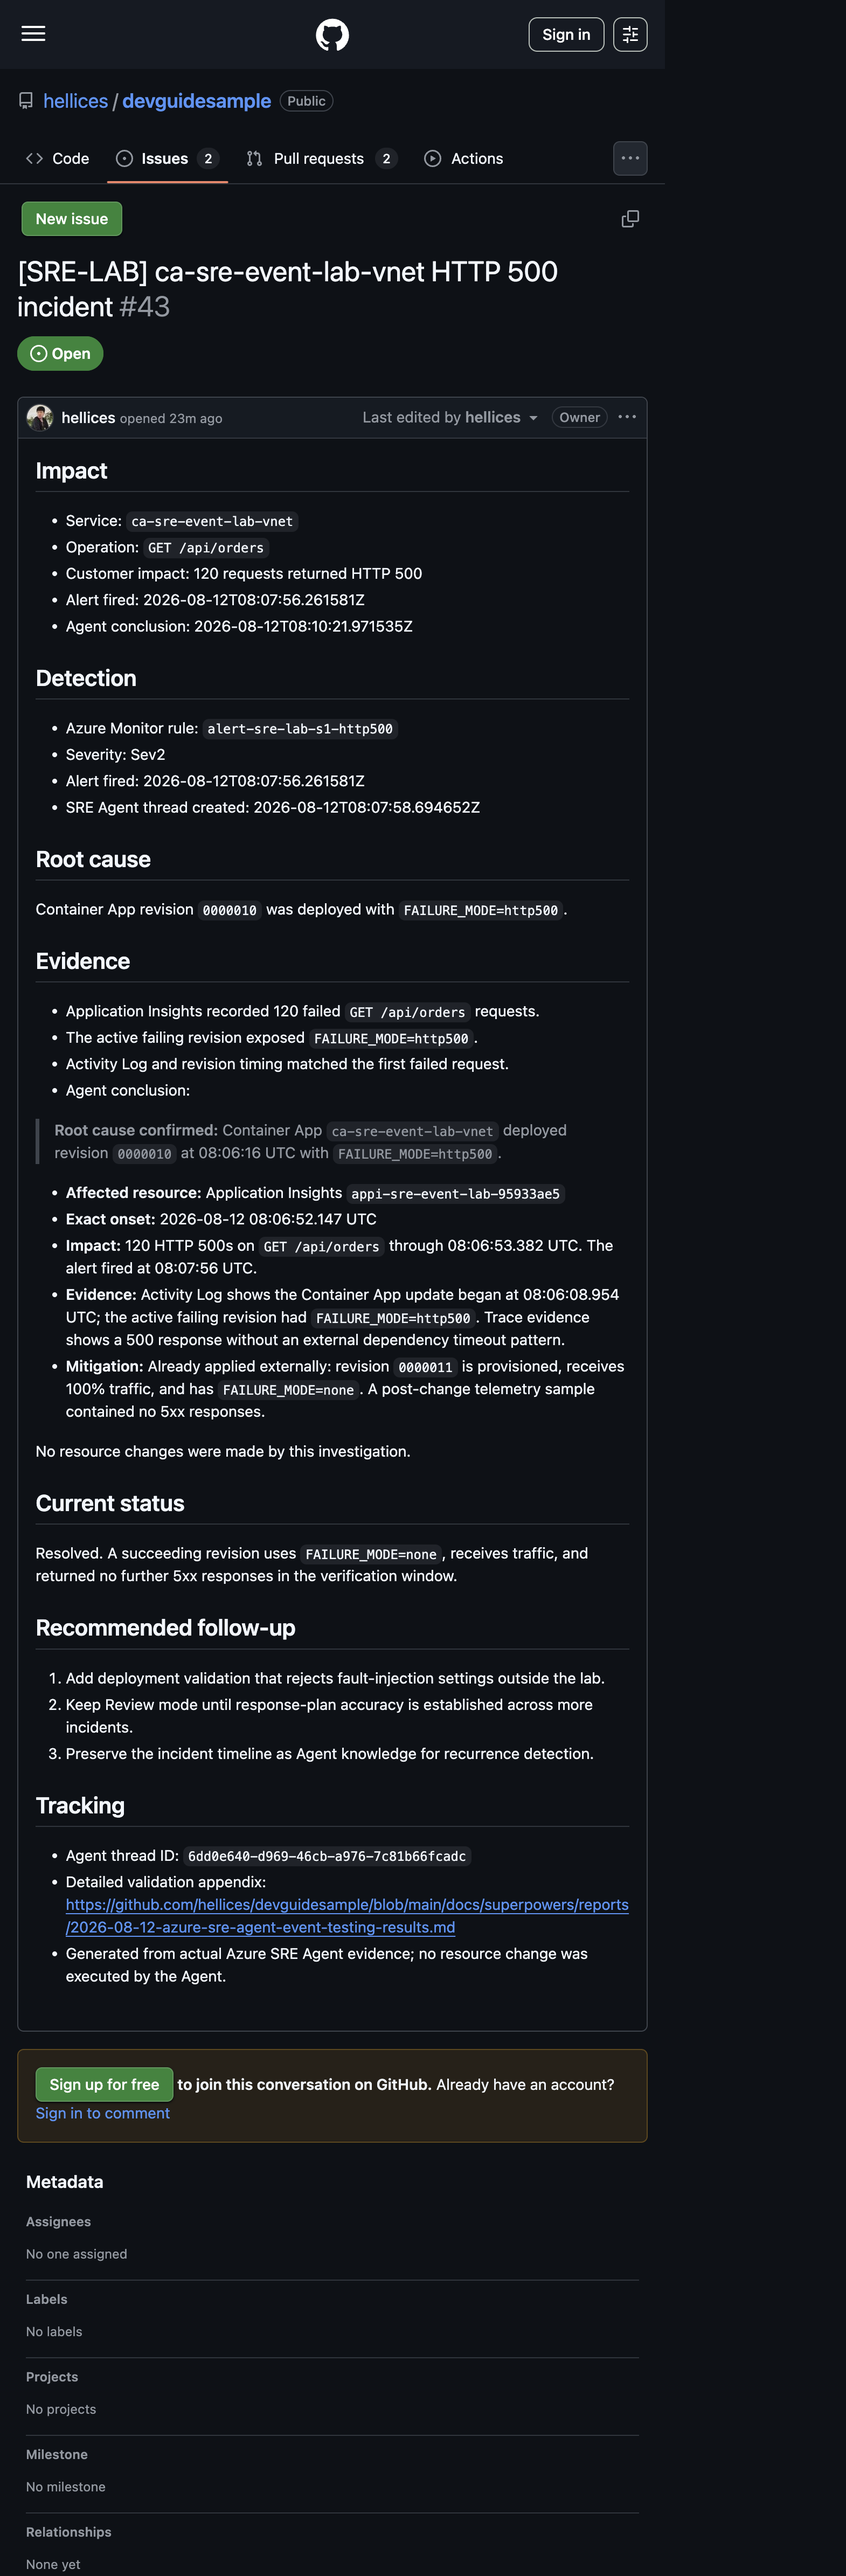
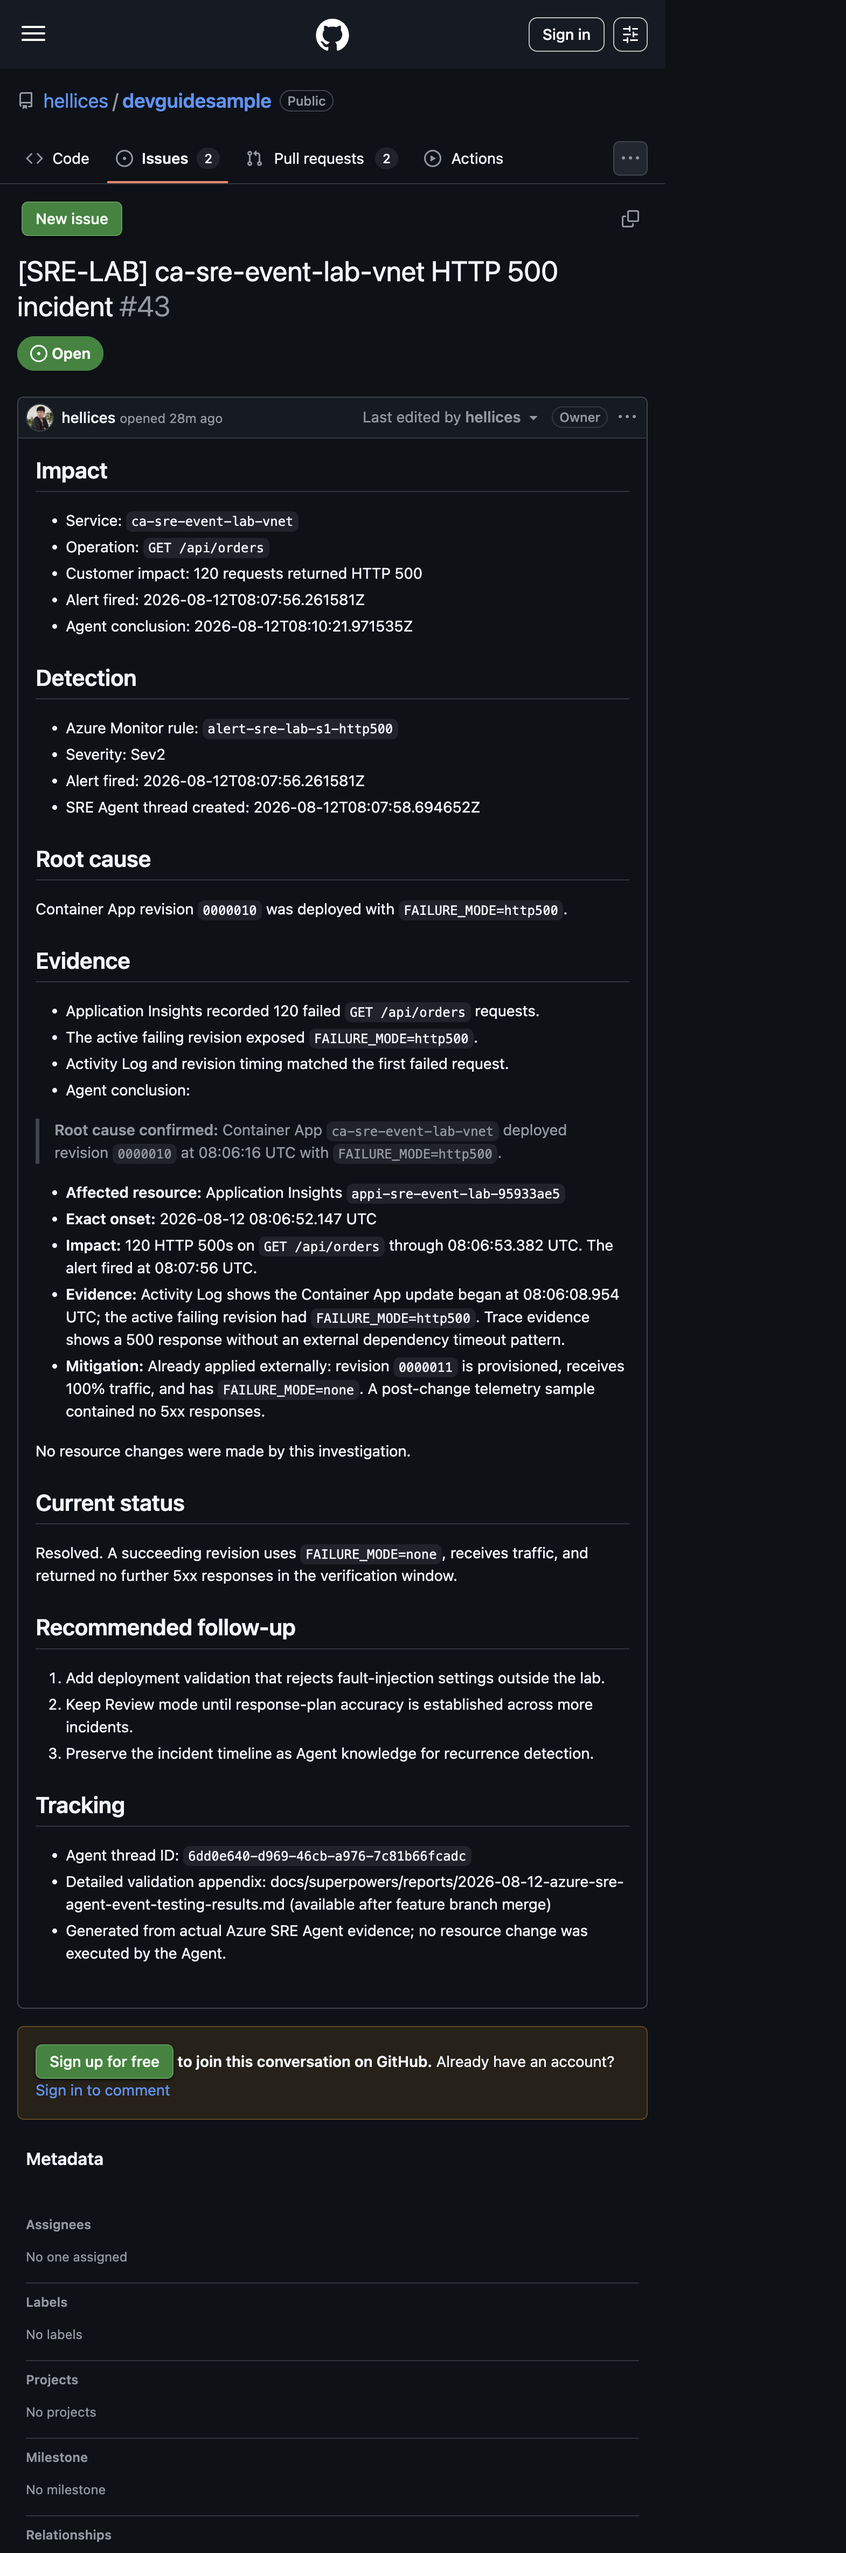
fix(monitor): validate SRE communication narratives

diff --git a/monitor/sre-agent-event-lab/assets/notifications/s1-incident-summary.html b/monitor/sre-agent-event-lab/assets/notifications/s1-incident-summary.html
@@ -45,7 +45,7 @@
         <li>Keep the response plan in Review mode while accuracy is monitored.</li>
         <li>Retain this investigation in the Agent knowledge base.</li>
       </ol>
-      <p><a href="https://github.com/hellices/devguidesample/blob/main/docs/superpowers/reports/2026-08-12-azure-sre-agent-event-testing-results.md">Open detailed validation appendix</a></p>
+      <p><code>docs/superpowers/reports/2026-08-12-azure-sre-agent-event-testing-results.md (available after feature branch merge)</code></p>
     </section>
     <footer class="footer">
       Draft artifact — not sent. Agent thread 6dd0e640-d969-46cb-a976-7c81b66fcadc

diff --git a/monitor/sre-agent-event-lab/scripts/tests/test_notifications.py b/monitor/sre-agent-event-lab/scripts/tests/test_notifications.py
@@ -60,10 +60,7 @@ def test_generate_notifications_creates_ticket_and_email(tmp_path):
     outputs = notifications.generate_notifications(
         timeline=timeline(),
         output_dir=tmp_path,
-        report_url=(
-            "https://github.com/hellices/devguidesample/blob/"
-            "feature/azure-sre-agent-event-lab/docs/report.md"
-        ),
+        report_url="docs/superpowers/reports/report.md (available after merge)",
         issue_url="https://github.com/hellices/devguidesample/issues/123",
     )
 
@@ -79,6 +76,7 @@ def test_generate_notifications_creates_ticket_and_email(tmp_path):
         assert heading in issue
     assert "120" in issue
     assert "thread-1" in issue
+    assert "available after merge" in issue
     assert "Incident window" not in issue
     assert "Alert fired:" in issue
     assert "Agent conclusion:" in issue
@@ -89,6 +87,9 @@ def test_generate_notifications_creates_ticket_and_email(tmp_path):
     assert message["Subject"] == "[Resolved][SRE-LAB] Order API HTTP 500 incident"
     assert message["To"] == "oncall@example.invalid"
     assert "https://github.com/hellices/devguidesample/issues/123" in message.get_body(
+        preferencelist=("html",)
+    ).get_content()
+    assert "available after merge" in message.get_body(
         preferencelist=("html",)
     ).get_content()
     assert "**" not in (tmp_path / "s1-incident-summary.html").read_text()

diff --git a/monitor/sre-agent-event-lab/scripts/generate_notifications.py b/monitor/sre-agent-event-lab/scripts/generate_notifications.py
@@ -113,6 +113,11 @@ def email_html(
         if issue_url
         else "GitHub Issue 발행 전 draft"
     )
+    report_reference = (
+        f'<a href="{html.escape(report_url)}">Open detailed validation appendix</a>'
+        if report_url.startswith(("https://", "http://"))
+        else f"<code>{html.escape(report_url)}</code>"
+    )
     return f"""<!doctype html>
 <html lang="ko">
 <head>
@@ -160,7 +165,7 @@ def email_html(
         <li>Keep the response plan in Review mode while accuracy is monitored.</li>
         <li>Retain this investigation in the Agent knowledge base.</li>
       </ol>
-      <p><a href="{html.escape(report_url)}">Open detailed validation appendix</a></p>
+      <p>{report_reference}</p>
     </section>
     <footer class="footer">
       Draft artifact — not sent. Agent thread {html.escape(thread["event_id"])}

diff --git a/monitor/sre-agent-event-lab/assets/notifications/s1-github-issue.md b/monitor/sre-agent-event-lab/assets/notifications/s1-github-issue.md
@@ -47,5 +47,5 @@ Resolved. A succeeding revision uses `FAILURE_MODE=none`, receives traffic, and 
 ## Tracking
 
 - Agent thread ID: `6dd0e640-d969-46cb-a976-7c81b66fcadc`
-- Detailed validation appendix: https://github.com/hellices/devguidesample/blob/main/docs/superpowers/reports/2026-08-12-azure-sre-agent-event-testing-results.md
+- Detailed validation appendix: docs/superpowers/reports/2026-08-12-azure-sre-agent-event-testing-results.md (available after feature branch merge)
 - Generated from actual Azure SRE Agent evidence; no resource change was executed by the Agent.
